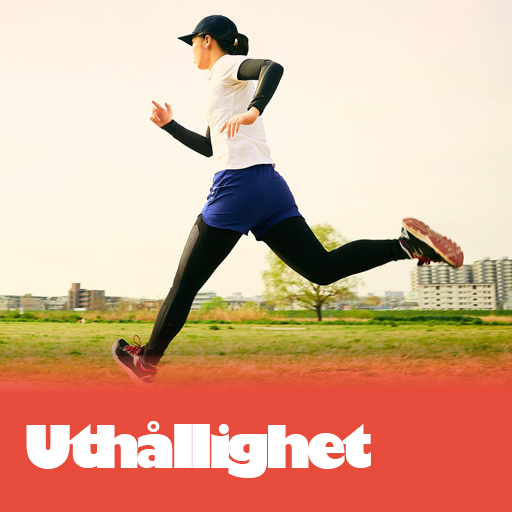
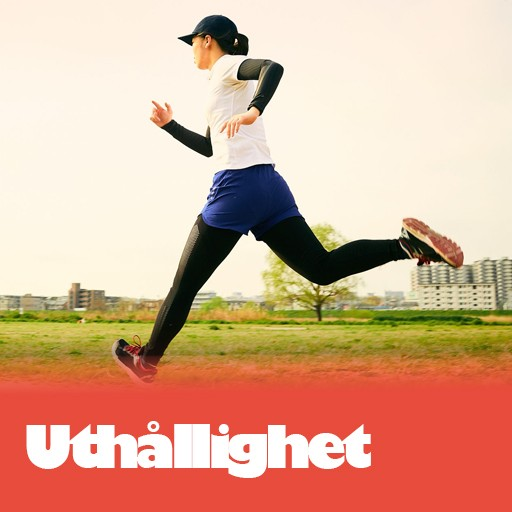
2023/12/21 bildstorleksjustering (alla mindre än 100kb)

diff --git a/css/style.css b/css/style.css
@@ -38,7 +38,7 @@
 }
 .LandingPage{
     display: grid;
-    background-image: url("/img/Bakgrund2.png");
+    background-image: url("/img/Bakgrund2.jpg");
     background-position: bottom;
     background-position: 0px -230px;
     background-repeat: no-repeat;
